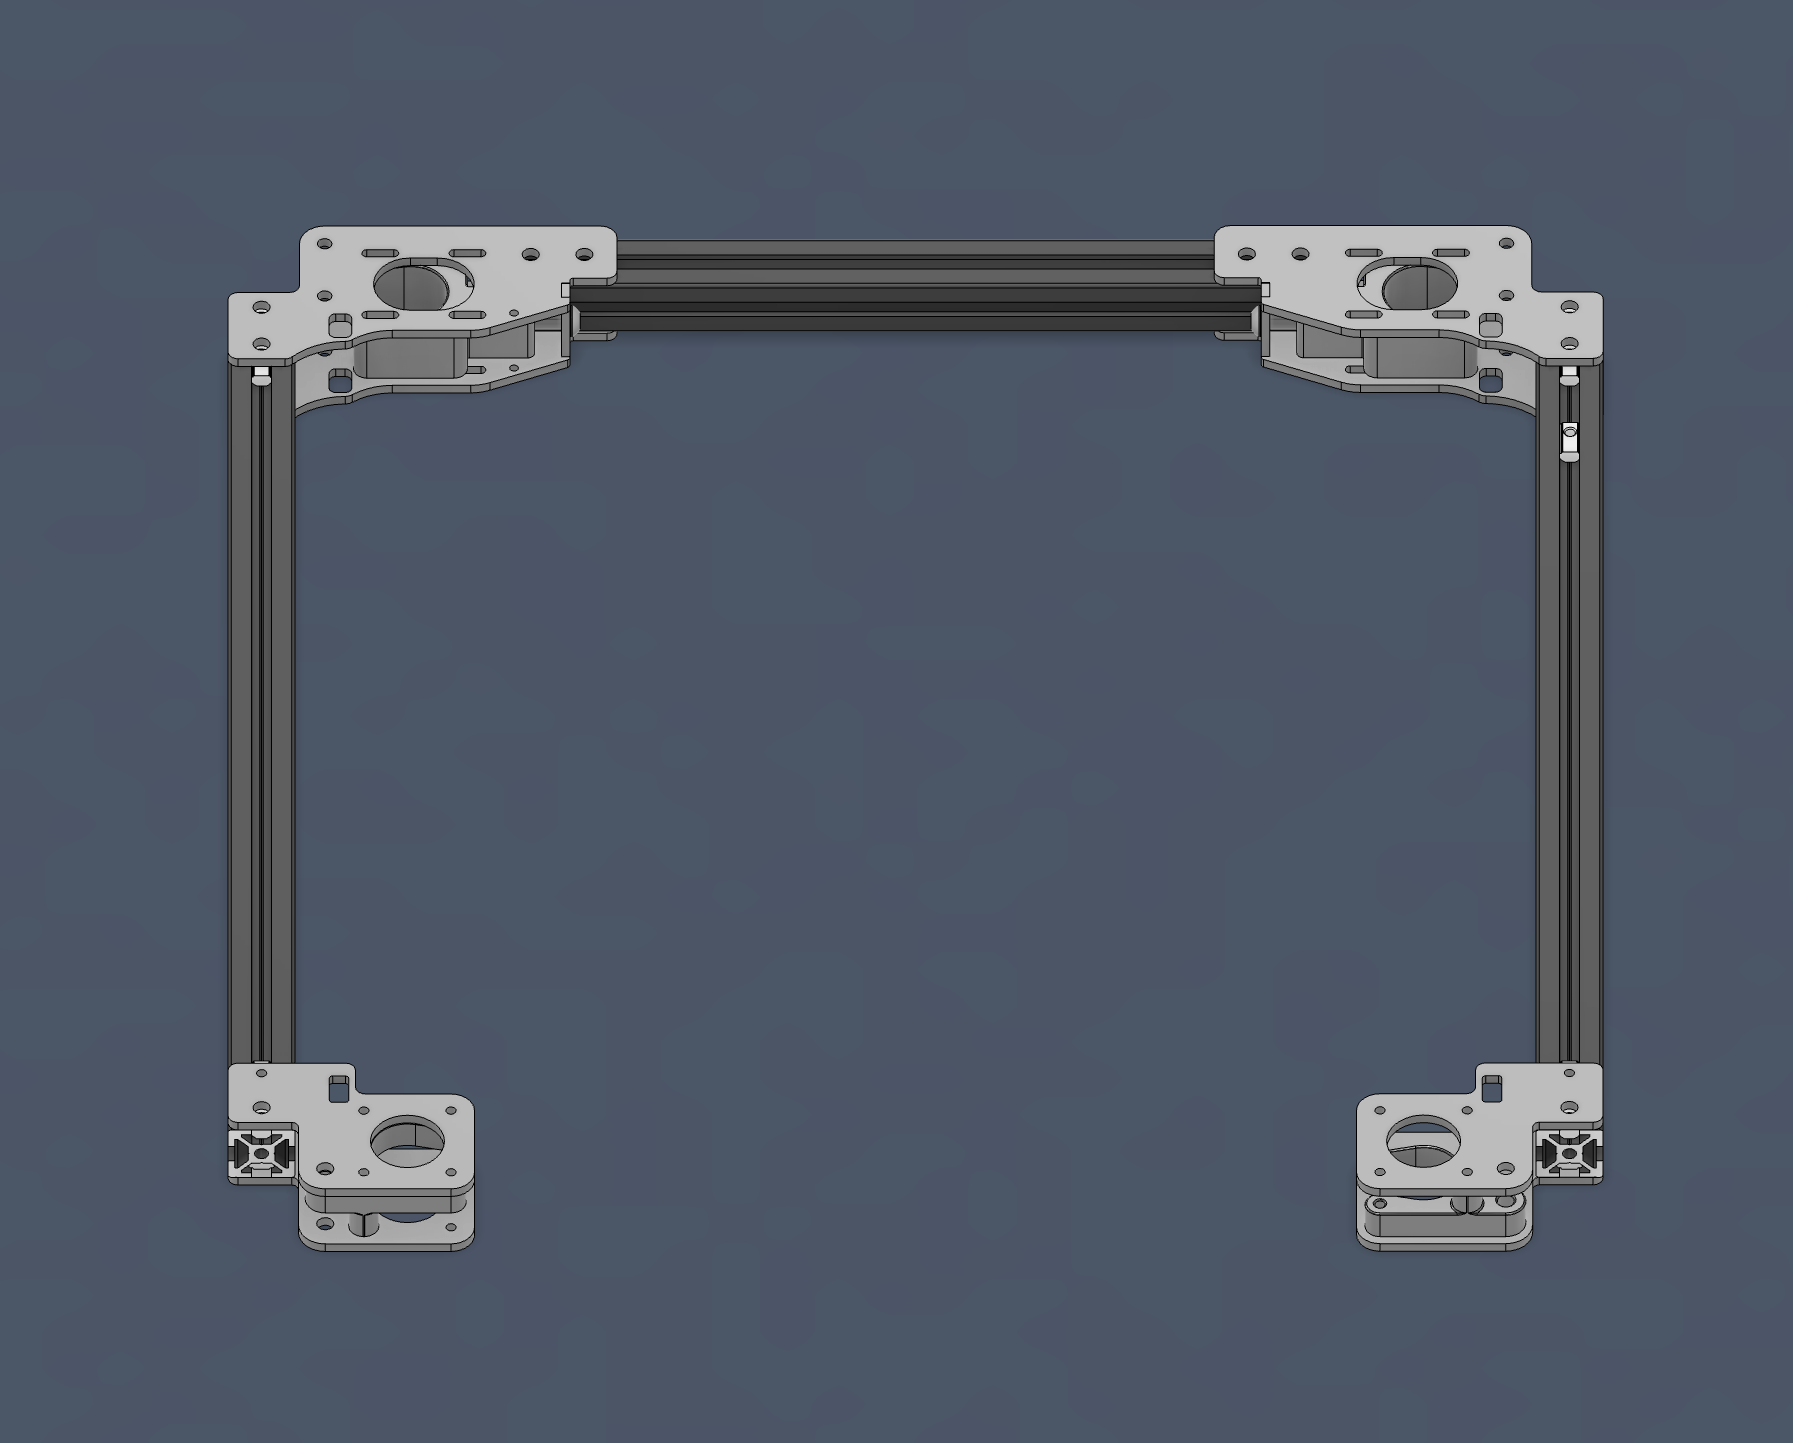
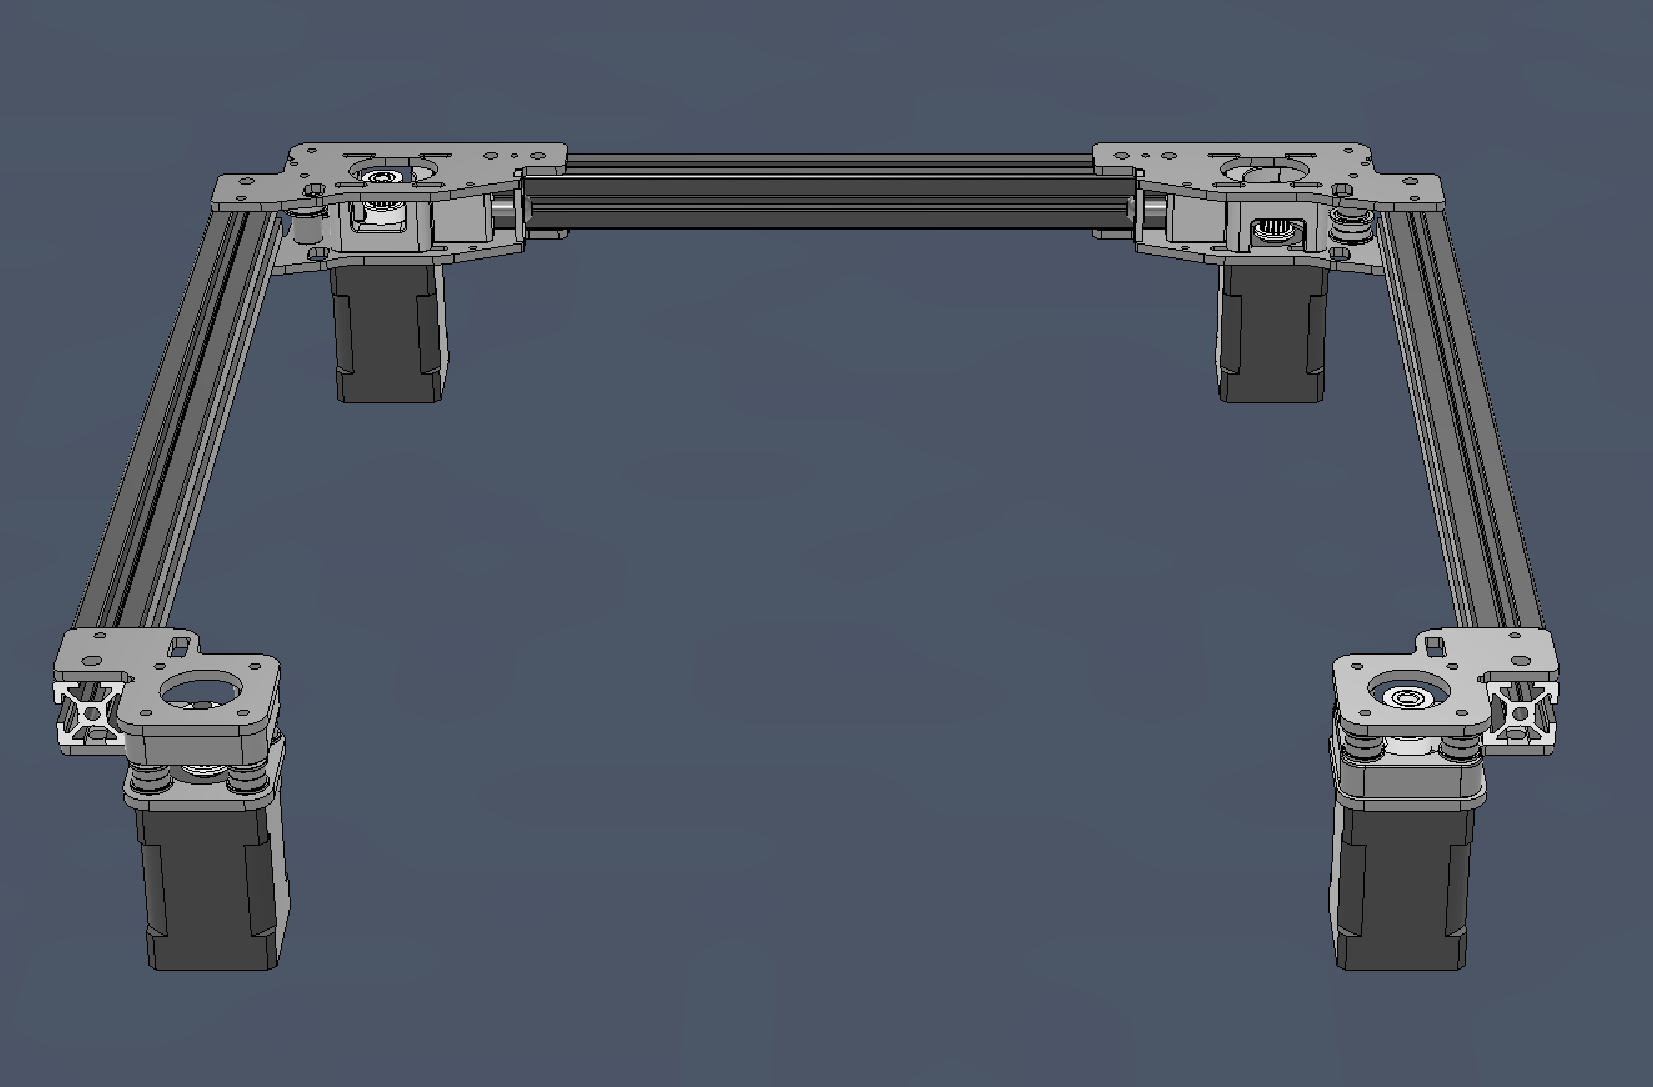
Updating for changes to NEMA14 plates

Changed region(s): [[0.0309, 0.1214, 0.9564, 0.9108]]

diff --git a/docs/metal_parts.md b/docs/metal_parts.md
@@ -8,17 +8,29 @@ hide:
 Some bits still have to be printed.
 
 * The printed parts are listed in the STL directory of the GitHub repo under either [STL/NEMA14/MetalPlates](https://github.com/aTinyShellScript/v2.4_AWD/tree/main/STLs/NEMA14/MetalPlates) or [STL/NEMA17/MetalPlates](https://github.com/aTinyShellScript/v2.4_AWD/tree/main/STLs/NEMA17/MetalPlates) depending on your stepper size. 
-* For 2WD, you do not need the 'FrontMidBody' parts but you need two additional '10mmSpacer'.
+* For 2WD, you do not need the 'FrontMidBody' parts but you need two additional '10mmSpacer'. 
+    * Unless using DoubleT pins.
 
 ## All Wheel Drive
-The NEMA14 and NEMA17 versions share the same BOM.
+The NEMA14 and NEMA17 versions largely have the same BOM but they're broken out here for visibility.
 
-### BOM
+### NEMA14 BOM
+Please note that the original NEMA14 plates will require 4 extra F695-2RS Bearings and 2 extra M3x20 standoffs.
+
+    * 12x F695-2RS Bearings
+    * 12x F623-2RS Bearings
+    * 2x M5x30mm
+    * 2x M5 Nuts
+    * 4x 20mm M3 Metal Standoffs (or DoubleT pins)
+    * 12x M3x8mm
+    * 16x M3x30mm
+
+### NEMA17 BOM
     * 16x F695-2RS Bearings
     * 12x F623-2RS Bearings
     * 2x M5x30mm
     * 2x M5 Nuts
-    * 6x 20mm M3 Metal Standoffs
+    * 6x 20mm M3 Metal Standoffs (or DoubleT pins)
     * 12x M3x8mm
     * 16x M3x30mm
 
@@ -26,10 +38,8 @@ The NEMA14 and NEMA17 versions share the same BOM.
 
 Use the CAD for info on how to assemble.
 
-Just make sure you put the correct plate (with M5 and M3 holes for the side extrusion) on the bottom for the rear AB drives, it's important otherwise it won't fit.
-
 ## Two Wheel Drive
-* Even without adding two extra steppers, you can gain benefits from using metal plates for your AB drives. The increased heatsinking provided will allow you to run higher currents than you could with ABS/ASA parts previously.
+* Even without adding two extra steppers, you can gain benefits from using metal plates for your AB drives due to increased rigidity and added heatsinking for the stepper.
   
 * There are printable Simple Idlers located in the `Printed` sub-folder if you aren't concerned about chamber temps.
 
@@ -47,5 +57,3 @@ Just make sure you put the correct plate (with M5 and M3 holes for the side extr
 ![2WD Gantry Orientation](images/2wd_gantry.png)
 
 Use the CAD for info on how to assemble.
-
-Just make sure you put the correct plate (with M5 and M3 holes for the side extrusion) on the bottom for the rear AB drives, it's important otherwise it won't fit.

diff --git a/docs/index.md b/docs/index.md
@@ -21,13 +21,13 @@ Decide what size steppers you want to use (NEMA14 recommended) and select [Metal
 * Pros
     * You will be able to (probably) print faster with less vibration.
         * Having two steppers per belt helps equalize the tension on the belt during fast moves.
-    * Metal (if you use them) plates help dissipate heat from your steppers, so you can run much higher currents.
+    * Metal (if you use them) plates help dissipate heat from your steppers, so you can run higher currents.
     * For 2WD, you can get rid of those stupid front tensioners that break.
     * Looks cool. Bling is always a good thing.
     * Works with existing XYjoints.
 * Cons
     * If modifying an existing printer (or building from BOM or a Kit) you will lose a small amount of bed space.
-        * For NEMA14s, you will lose between 15x15mm and 30x30mm of space, depending on the toolhead you use.
+        * For NEMA14s, you will lose between 10x10mm and 20x20mm of space, depending on the toolhead you use.
         * For NEMA17s, you can expect to lose betweeen 25x25 and 40x40mm of space.
         * For 2WD, you lose no space.
     * Cost and complexity

diff --git a/docs/sourcing.md b/docs/sourcing.md
@@ -21,12 +21,12 @@ DXF files are available in the repo. This might be an option if you want to get 
 
 v2.4 Parts:
 
-  * A/B and Front Plates: 5052 Aluminum, 0.125"/~3.2mm
+  * Rear and Front Plates: 5052 Aluminum, 0.125"/~3.2mm
   * Tensioner Plates: 5052 Aluminum, 0.100"/~2.5mm
 
 Micron Parts:
 
-  * AB and Idler Plates: 5052 Aluminum, 0.100"/~2.5mm
+  * Rear and Idler Plates: 5052 Aluminum, 0.100"/~2.5mm
   * Spacers, 1.5mm anything
 
 ### Sources for Laser Cut Parts
@@ -34,7 +34,6 @@ Micron Parts:
 * US
     * [SendCutSend](https://sendcutsend.com)
         * [NEMA14 AWD Preconfigured Cart](https://cart.sendcutsend.com/ayr0sjczgpci)
-        * [NEMA14 2WD Preconfigured Cart](https://cart.sendcutsend.com/4cno7qczjzug)
         * [NEMA17 AWD Preconfigured Cart](https://cart.sendcutsend.com/ras3wtuyjylx)
         * [NEMA17 2WD Preconfigured Cart](https://cart.sendcutsend.com/pscmspjxyv6z)
         * [Micron Metal (Tapped) Preconfigured Cart](https://cart.sendcutsend.com/7yib4xzr3sck)

diff --git a/docs/configuration.md b/docs/configuration.md
@@ -4,9 +4,15 @@ hide:
 ---
 # Setup and Configuration
 
-## Bearing Idler Stacks
+## NEMA14 Bearing Idler Stacks
 
-![Idler Locations](images/Idler_Locations.png)
+![NEMA14 Idler Locations](images/Idler_Locations_14.png)
+
+## NEMA17 Bearing Idler Stacks
+
+These are also the idler locations for the original NEMA14 plates.
+
+![NEMA17 Idler Locations](images/Idler_Locations_17.png)
 
 ## AWD Belt Pathing
 
